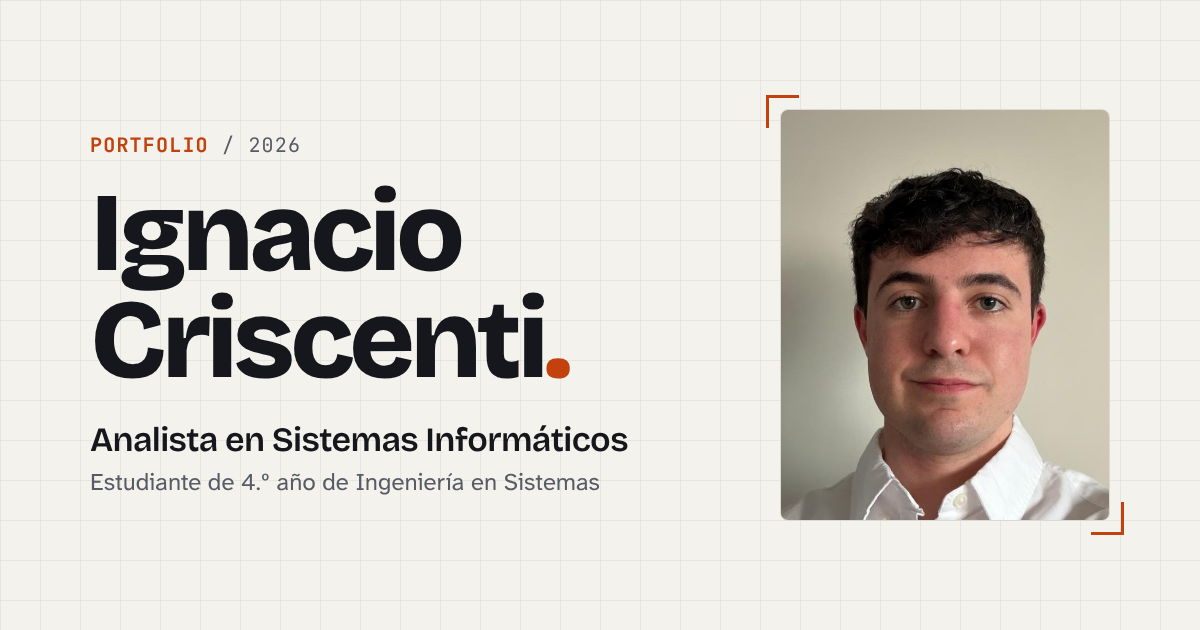
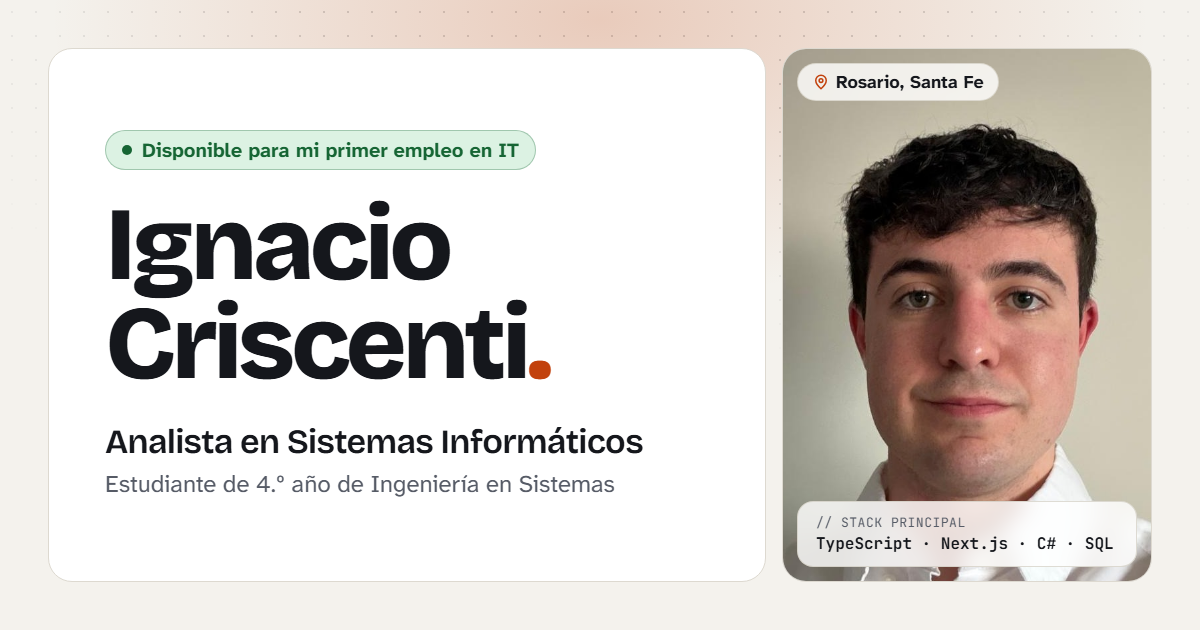
Imagen para redes con el diseño bento
Se agrega og/og-image.html como fuente para poder regenerarla.

diff --git a/og/og-image.html b/og/og-image.html
@@ -1,0 +1,210 @@
+<!doctype html>
+<!--
+  Fuente de public/og-image.png (vista previa al compartir el link, 1200 × 630).
+  Para regenerarla, con `npm install` hecho:
+  chrome --headless=new --hide-scrollbars --window-size=1200,630 --screenshot=public/og-image.png og/og-image.html
+-->
+<html lang="es-AR">
+  <head>
+    <meta charset="utf-8" />
+    <title>Imagen para redes — Ignacio Criscenti</title>
+    <style>
+      @font-face {
+        font-family: 'Bricolage';
+        src: url('../node_modules/@fontsource-variable/bricolage-grotesque/files/bricolage-grotesque-latin-wght-normal.woff2') format('woff2');
+        font-weight: 200 800;
+      }
+      @font-face {
+        font-family: 'Atkinson';
+        src: url('../node_modules/@fontsource-variable/atkinson-hyperlegible-next/files/atkinson-hyperlegible-next-latin-wght-normal.woff2') format('woff2');
+        font-weight: 200 800;
+      }
+      @font-face {
+        font-family: 'JetBrains';
+        src: url('../node_modules/@fontsource-variable/jetbrains-mono/files/jetbrains-mono-latin-wght-normal.woff2') format('woff2');
+        font-weight: 100 800;
+      }
+
+      :root {
+        --bg: #f4f2ed;
+        --surface: #ffffff;
+        --line: #ddd9d0;
+        --line-strong: #c9c4b8;
+        --ink: #15171c;
+        --muted: #565b66;
+        --accent: #c2410c;
+        --ok: #166534;
+        --ok-soft: #dcf2e3;
+      }
+      * {
+        box-sizing: border-box;
+        margin: 0;
+        padding: 0;
+      }
+      body {
+        position: relative;
+        width: 1200px;
+        height: 630px;
+        overflow: hidden;
+        background: var(--bg);
+        font-family: 'Atkinson', system-ui, sans-serif;
+        color: var(--ink);
+      }
+      .dots {
+        position: absolute;
+        inset: 0;
+        background-image: radial-gradient(color-mix(in srgb, var(--ink) 16%, transparent) 1.2px, transparent 1.2px);
+        background-size: 24px 24px;
+        mask-image: radial-gradient(ellipse 80% 75% at 50% 0%, #000 30%, transparent 80%);
+      }
+      .glow {
+        position: absolute;
+        top: -260px;
+        left: 50%;
+        width: 1100px;
+        height: 560px;
+        transform: translateX(-50%);
+        background: radial-gradient(closest-side, color-mix(in srgb, var(--accent) 22%, transparent), transparent);
+      }
+      .grid {
+        position: absolute;
+        inset: 48px;
+        display: grid;
+        grid-template-columns: 1fr 370px;
+        gap: 16px;
+      }
+      .card {
+        position: relative;
+        overflow: hidden;
+        border: 1px solid var(--line);
+        border-radius: 24px;
+        background: var(--surface);
+      }
+      .intro {
+        display: flex;
+        flex-direction: column;
+        justify-content: center;
+        padding: 0 56px;
+      }
+      .status {
+        display: inline-flex;
+        align-items: center;
+        gap: 10px;
+        width: fit-content;
+        padding: 6px 16px;
+        border: 1px solid color-mix(in srgb, var(--ok) 30%, transparent);
+        border-radius: 999px;
+        background: var(--ok-soft);
+        color: var(--ok);
+        font-size: 20px;
+        font-weight: 700;
+      }
+      .status::before {
+        content: '';
+        width: 10px;
+        height: 10px;
+        border-radius: 50%;
+        background: var(--ok);
+      }
+      h1 {
+        margin-top: 26px;
+        font-family: 'Bricolage', system-ui, sans-serif;
+        font-size: 104px;
+        font-weight: 800;
+        line-height: 0.95;
+        letter-spacing: -0.045em;
+      }
+      h1 span {
+        color: var(--accent);
+      }
+      .role {
+        margin-top: 28px;
+        font-family: 'Bricolage', system-ui, sans-serif;
+        font-size: 34px;
+        font-weight: 600;
+        letter-spacing: -0.02em;
+      }
+      .sub {
+        margin-top: 6px;
+        font-size: 24px;
+        color: var(--muted);
+      }
+      .photo img {
+        position: absolute;
+        inset: 0;
+        width: 100%;
+        height: 100%;
+        object-fit: cover;
+        object-position: 50% 25%;
+      }
+      .glass {
+        position: absolute;
+        border: 1px solid color-mix(in srgb, var(--line-strong) 60%, transparent);
+        background: color-mix(in srgb, var(--surface) 82%, transparent);
+        backdrop-filter: blur(12px) saturate(1.4);
+      }
+      .pin {
+        top: 14px;
+        left: 14px;
+        display: flex;
+        align-items: center;
+        gap: 6px;
+        padding: 6px 14px;
+        border-radius: 999px;
+        font-size: 18px;
+        font-weight: 700;
+      }
+      .pin svg {
+        width: 18px;
+        height: 18px;
+        color: var(--accent);
+      }
+      .stack {
+        right: 14px;
+        bottom: 14px;
+        left: 14px;
+        padding: 12px 18px;
+        border-radius: 16px;
+      }
+      .stack small {
+        display: block;
+        font-family: 'JetBrains', monospace;
+        font-size: 13px;
+        letter-spacing: 0.04em;
+        text-transform: uppercase;
+        color: var(--muted);
+      }
+      .stack p {
+        margin-top: 2px;
+        font-family: 'JetBrains', monospace;
+        font-size: 16px;
+        font-weight: 600;
+      }
+    </style>
+  </head>
+  <body>
+    <div class="dots"></div>
+    <div class="glow"></div>
+    <div class="grid">
+      <div class="card intro">
+        <p class="status">Disponible para mi primer empleo en IT</p>
+        <h1>Ignacio<br />Criscenti<span>.</span></h1>
+        <p class="role">Analista en Sistemas Informáticos</p>
+        <p class="sub">Estudiante de 4.º año de Ingeniería en Sistemas</p>
+      </div>
+      <div class="card photo">
+        <img src="../src/assets/ignacio-criscenti.jpg" alt="Foto de Ignacio Criscenti" />
+        <p class="glass pin">
+          <svg viewBox="0 0 24 24" fill="none" stroke="currentColor" stroke-width="2" stroke-linecap="round" stroke-linejoin="round" aria-hidden="true">
+            <path d="M12 21s-7-6.2-7-11a7 7 0 0 1 14 0c0 4.8-7 11-7 11Z" /><circle cx="12" cy="10" r="2.5" />
+          </svg>
+          Rosario, Santa Fe
+        </p>
+        <div class="glass stack">
+          <small>// stack principal</small>
+          <p>TypeScript · Next.js · C# · SQL</p>
+        </div>
+      </div>
+    </div>
+  </body>
+</html>
